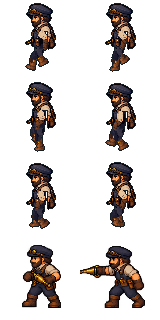
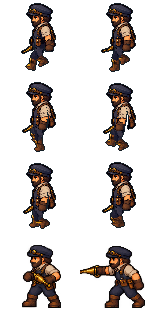
Refine Orrin's native sleeves, gloves and boot materials

diff --git a/src/art/orrin-actor.ts b/src/art/orrin-actor.ts
@@ -1,6 +1,6 @@
 import type { ActorDirection } from '../content/actors';
-import { orient, project } from './actor-space';
-import { patch, surface, acrossView, ROUND_SIDES, viewPoint, decal, limb, rounded, pelvis, trouserLeg, shoe, type CharacterTextures } from './actor-skin';
+import { orient, project, type Point3 } from './actor-space';
+import { patch, surface, acrossView, ROUND_SIDES, viewPoint, decal, limb, pelvis, trouserLeg, shoe, type CharacterTextures } from './actor-skin';
 import { renderLayers, type PixelTexture, type SpriteLayer } from './layered-sprite';
 import { armToGrip, referenceRig, type ReferencePose, type WeaponPose } from './reference-rig';
 import { ORRIN_PROPORTIONS, type RigProportions } from './rig-proportions';
@@ -16,16 +16,81 @@ export function orrinPose(phase:number,config:Readonly<RigProportions>=ORRIN_PRO
 }
 export const orrinFrame=(frame:number,config:Readonly<RigProportions>=ORRIN_PROPORTIONS)=>orrinPose(frame/REFERENCE_FRAMES,config);
 
-function glove(side:'left'|'right',pose:ReferencePose,texture:PixelTexture,direction:ActorDirection):SpriteLayer {
-  const grip=pose.arms[side].grip,scale=pose.proportions.armWidth;
-  return surface(`${side}-hand`,Array.from({length:7},(_,row)=>{
-    const v=row/6,ring=Math.max(.04,Math.sin(v*Math.PI));
-    return Array.from({length:ROUND_SIDES},(_,i)=>{
-      const angle=i/ROUND_SIDES*Math.PI*2,c=Math.cos(angle),s=Math.sin(angle);
-      return {point:{x:grip.x+c*2.7*ring*scale,y:grip.y+s*2.3*ring*scale,z:grip.z+Math.cos(v*Math.PI)*2.8*scale},
-        u:(acrossView(direction,c,s)+1)/2*texture.width,v:v*texture.height};
-    });
-  }),0xffffff,texture);
+/** Native standing artwork has no gait rise. Bind the relaxed arm phase at
+ * the resting hip height so sleeves and belt share exactly the same body bob. */
+function orrinBind():ReferencePose {
+  const pose=orrinPose(.25),rise=pose.hipHeight-ORRIN_PROPORTIONS.hipHeight;
+  for(const arm of Object.values(pose.arms))for(const point of [arm.shoulder,arm.elbow,arm.wrist,arm.grip])point.z-=rise;
+  return pose;
+}
+
+type Span=readonly [top:number,bottom:number,left:number,right:number];
+type ScreenPoint=readonly [number,number];
+interface ArmSkin {
+  shoulder:ScreenPoint;elbow:ScreenPoint;wrist:ScreenPoint;grip:ScreenPoint;
+  sleeve:readonly Span[];cuff:readonly Span[];hand:readonly Span[];
+}
+// Native rolled sleeves, bare forearms and work gloves. Each view has its own
+// source pixels; even the far profile arm is bound independently, never flipped.
+const ARM_SKINS:Record<ActorDirection,Record<'left'|'right',ArmSkin>>={
+  front:{
+    right:{shoulder:[30,29],elbow:[26.5,36],wrist:[26,40],grip:[27,41],
+      sleeve:[[25,28,28,33],[28,31,26,33],[31,34,24,32],[34,36,23,31]],cuff:[[36,40,23,30]],hand:[[40,43,23,29]]},
+    left:{shoulder:[51,29],elbow:[55,38],wrist:[55,43],grip:[55,45],
+      sleeve:[[25,28,49,54],[28,31,49,56],[31,35,50,58],[35,38,52,58]],cuff:[[38,43,52,58]],hand:[[43,48,53,58]]},
+  },
+  left:{right:{shoulder:[36,29],elbow:[33.5,36],wrist:[33,40],grip:[31,43],
+    sleeve:[[27,31,35,38],[31,36,34,37]],cuff:[[36,40,31,35]],hand:[[40,44,31,35]]},
+    left:{shoulder:[44,29],elbow:[45,39],wrist:[44,45],grip:[44,47],
+    sleeve:[[25,28,41,45],[28,31,40,47],[31,35,40,48],[35,39,41,49]],cuff:[[39,45,41,49]],hand:[[45,51,40,48]]}},
+  right:{left:{shoulder:[43,28],elbow:[46,35],wrist:[47,39],grip:[48,41],
+    sleeve:[[27,31,42,45],[31,35,43,47]],cuff:[[35,39,45,49]],hand:[[39,43,46,50]]},
+    right:{shoulder:[36,29],elbow:[39,38],wrist:[41,43],grip:[44,44],
+    sleeve:[[25,28,34,39],[28,31,33,41],[31,35,33,43],[35,38,35,43]],cuff:[[38,43,36,46]],hand:[[43,47,37,47]]}},
+  back:{
+    left:{shoulder:[30,29],elbow:[26,38],wrist:[26,44],grip:[27,46],
+      sleeve:[[25,28,28,33],[28,31,26,33],[31,35,24,32],[35,38,23,31]],cuff:[[38,44,23,30]],hand:[[44,49,24,31]]},
+    right:{shoulder:[51,29],elbow:[55,38],wrist:[56,42],grip:[55,43],
+      sleeve:[[25,28,49,54],[28,31,49,56],[31,35,50,58],[35,38,52,59]],cuff:[[38,42,53,60]],hand:[[42,46,54,60]]},
+  },
+};
+
+function cutout(source:PixelTexture,spans:readonly Span[]):PixelTexture {
+  const pixels=new Uint8ClampedArray(source.pixels.length);
+  for(const [top,bottom,left,right] of spans)for(let y=top;y<bottom;y++)for(let x=left;x<right;x++){
+    const at=(y*source.width+x)*4;pixels.set(source.pixels.subarray(at,at+4),at);
+  }
+  return {...source,pixels};
+}
+
+/** Articulate native garment pixels around the rig, preserving their cross-section
+ * and directional shading instead of wrapping a small swatch around a tube. */
+function garment(id:string,source:PixelTexture,spans:readonly Span[],a:ScreenPoint,b:ScreenPoint,
+  worldA:Point3,worldB:Point3,bindA:Point3,bindB:Point3,direction:ActorDirection,fullness:number):SpriteLayer {
+  const texture=cutout(source,spans),left=Math.min(...spans.map(s=>s[2])),right=Math.max(...spans.map(s=>s[3]));
+  const top=Math.min(...spans.map(s=>s[0])),bottom=Math.max(...spans.map(s=>s[1]));
+  const pa=project(worldA,direction),pb=project(worldB,direction),ba=project(bindA,direction),bb=project(bindB,direction);
+  const ax=a[0]+pa.x-ba.x,ay=a[1]+pa.y-ba.y,bx=b[0]+pb.x-bb.x,by=b[1]+pb.y-bb.y;
+  const dx=b[0]-a[0],dy=b[1]-a[1],length=Math.hypot(dx,dy),tx=bx-ax,ty=by-ay,targetLength=Math.max(.1,Math.hypot(tx,ty));
+  const da=orient(worldA,direction).y+3.5,db=orient(worldB,direction).y+3.5;
+  const vertices=[[left,top],[right,top],[right,bottom],[left,bottom]].map(([x,y])=>{
+    const along=((x-a[0])*dx+(y-a[1])*dy)/(length*length),across=((x-a[0])*-dy+(y-a[1])*dx)/length*fullness;
+    return viewPoint(ax+along*tx-across*ty/targetLength,ay+along*ty+across*tx/targetLength,da+(db-da)*along,direction);
+  });
+  return {id,vertices,faces:[{points:[0,1,2,3],color:0xffffff,unlit:true,texture,uv:[{u:left,v:top},{u:right,v:top},{u:right,v:bottom},{u:left,v:bottom}]}]};
+}
+
+function arms(pose:ReferencePose,source:PixelTexture,direction:ActorDirection):SpriteLayer[]{
+  const bind=orrinBind(),layers:SpriteLayer[]=[];
+  for(const side of ['left','right'] as const){
+    const skin=ARM_SKINS[direction][side];
+    const arm=pose.arms[side],rest=bind.arms[side];
+    layers.push(
+      garment(`${side}-upper-arm`,source,skin.sleeve,skin.shoulder,skin.elbow,arm.shoulder,arm.elbow,rest.shoulder,rest.elbow,direction,pose.proportions.armWidth),
+      garment(`${side}-forearm`,source,skin.cuff,skin.elbow,skin.wrist,arm.elbow,arm.wrist,rest.elbow,rest.wrist,direction,pose.proportions.armWidth),
+      garment(`${side}-hand`,source,skin.hand,skin.wrist,skin.grip,arm.wrist,arm.grip,rest.wrist,rest.grip,direction,pose.proportions.armWidth));
+  }
+  return layers;
 }
 
 /** Overalls fill the volume behind moving sleeves and join the continuous seat. */
@@ -37,59 +102,70 @@ function body(pose:ReferencePose,texture:PixelTexture,direction:ActorDirection):
   })),0xffffff,texture);
 }
 
+/** One native-scale leather field spans the calf and shoe. Projected UVs keep
+ * the brass cuff highlight from repeating around every rounded mesh face. */
+function bootFabric(layer:SpriteLayer,pose:ReferencePose,side:'left'|'right',texture:PixelTexture,direction:ActorDirection):SpriteLayer {
+  const knee=project(pose[side].knee,direction),ankle=project(pose[side].ankle,direction);
+  for(const face of layer.faces){
+    if(!face.texture)continue;
+    face.texture=texture;
+    face.uv=face.points.map(index=>{
+      const p=project(layer.vertices[index],direction),t=(p.y-knee.y)/Math.max(1,ankle.y-knee.y);
+      const x=knee.x+(ankle.x-knee.x)*Math.max(0,Math.min(1,t));
+      return {u:p.x-x+texture.width/2,v:t*7};
+    });
+  }
+  return layer;
+}
+
 /** Registered directional cutouts; the partly hidden left nozzle is never mirrored. */
 function lance(weapon:WeaponPose,source:PixelTexture,direction:ActorDirection):SpriteLayer {
   const regions:Record<ActorDirection,readonly[number,number,number,number,number,number]>={
     front:[21,43,11,20,27,41],left:[22,44,13,10,31,43],right:[47,42,11,20,46,42],back:[51,43,8,21,52,42],
   };
-  const [x,y,width,height,gx,gy]=regions[direction],texture={...source,pixels:new Uint8ClampedArray(source.pixels)};
+  const [x,y,width,height,gx,gy]=regions[direction];
   const spans:Record<ActorDirection,readonly (readonly[number,number,number,number])[]>={
     front:[[43,48,25,29],[48,57,21,30],[57,63,21,28]],
     left:[[44,47,30,35],[47,50,26,34],[50,54,22,30]],
     right:[[42,46,47,52],[46,55,47,57],[55,62,51,58]],
-    back:[[43,48,51,57],[48,59,51,59],[59,64,53,59]],
+    back:[[43,48,55,58],[48,51,53,59],[51,59,51,59],[59,64,53,59]],
   };
-  for(let row=0;row<80;row++)for(let col=0;col<80;col++)
-    if(!spans[direction].some(([top,bottom,left,right])=>row>=top&&row<bottom&&col>=left&&col<right))texture.pixels[(row*80+col)*4+3]=0;
-  const grip=project(weapon.grip,direction),depth=orient(weapon.grip,direction).y,c=Math.cos(weapon.pitch),s=Math.sin(weapon.pitch);
-  const mesh=decal('right-weapon',texture,[x,y,width,height],0,depth,direction);
+  const texture=cutout(source,spans[direction]);
+  const bind=orrinBind().arms.right.grip,actual=project(weapon.grip,direction),rest=project(bind,direction);
+  const grip={x:gx+actual.x-rest.x,y:gy+actual.y-rest.y},depth=orient(weapon.grip,direction).y+4,c=Math.cos(weapon.pitch),s=Math.sin(weapon.pitch);
+  const mesh=decal('right-weapon',texture,[x,y,width,height],0,depth,direction),pivot=viewPoint(grip.x,grip.y,depth,direction);
   mesh.vertices=[[x,y],[x+width,y],[x+width,y+height],[x,y+height]].map(([sx,sy])=>{
-    const p=viewPoint(grip.x+sx-gx,grip.y+sy-gy,depth,direction),dy=p.y-weapon.grip.y,dz=p.z-weapon.grip.z;
-    return {x:p.x,y:weapon.grip.y+dy*c-dz*s,z:weapon.grip.z+dy*s+dz*c};
+    const p=viewPoint(grip.x+sx-gx,grip.y+sy-gy,depth,direction),dy=p.y-pivot.y,dz=p.z-pivot.z;
+    return {x:p.x,y:pivot.y+dy*c-dz*s,z:pivot.z+dy*s+dz*c};
   });
   return mesh;
 }
 
 export function orrinLayers(pose:ReferencePose,direction:ActorDirection,textures:CharacterTextures):SpriteLayer[]{
   const source=textures[direction],head={...source,pixels:new Uint8ClampedArray(source.pixels)},torso={...source,pixels:new Uint8ClampedArray(source.pixels)};
+  const armSpans=Object.values(ARM_SKINS[direction]).flatMap(skin=>[...skin.sleeve,...skin.cuff,...skin.hand]);
   for(let y=0;y<80;y++)for(let x=0;x<80;x++){
     const at=(y*80+x)*4;
     const lowerHead=direction==='front'?y<33&&x>=31&&x<50:direction==='left'?y<30&&x>=32&&x<41:direction==='right'?y<30&&x>=39&&x<48:y<28&&x>=34&&x<47;
     if(y>=25&&!lowerHead)head.pixels[at+3]=0;
-    const oldArm=direction==='left'&&x>=39&&x<48&&y>=31&&y<49
-      ||direction==='right'&&x>=32&&x<43&&y>=31&&y<40
-      ||direction==='right'&&x>=35&&x<47&&y>=40&&y<49
+    const oldArm=armSpans.some(([top,bottom,left,right])=>y>=top&&y<bottom&&x>=left&&x<right)
+      ||direction==='left'&&y>=39&&y<46&&x<36
       ||direction==='left'&&y>=46&&x<35
-      ||(direction==='front'||direction==='back')&&y>=31&&(x<31||x>=51)
       ||direction==='right'&&y>=42&&x>=47;
     if(oldArm)torso.pixels[at+3]=0;
   }
-  const sleeveRects:Record<ActorDirection,readonly[number,number,number,number]>={front:[27,27,5,13],left:[42,27,5,13],right:[34,27,5,13],back:[27,27,5,13]};
-  const gloveRects:Record<ActorDirection,readonly[number,number,number,number]>={front:[51,40,5,7],left:[42,41,6,7],right:[37,41,6,7],back:[25,40,6,7]};
-  const sleeve=patch(source,...sleeveRects[direction],(r,g,b)=>r>110&&g>70&&b>30&&r>g*.95&&r<g*1.9);
-  const gloves=patch(source,...gloveRects[direction],(r,g,b)=>r>35&&r<160&&r>g*1.2&&g>b*1.1);
   const trousers=patch(source,33,43,15,14,(r,g,b)=>r<g*1.4&&b>r*.85);
-  const boot=patch(source,39,60,7,7,(r,g,b)=>r>g*1.15&&g>b*1.1&&r>35);
+  const bootRegions:Record<ActorDirection,readonly[number,number,number,number]>={front:[41,56,7,11],left:[42,56,8,11],right:[34,56,8,11],back:[35,57,8,10]};
+  const boot=patch(source,...bootRegions[direction],(r,g,b)=>r>g*1.15&&g>b*1.1&&r>18);
   const bib=patch(source,35,30,10,10,(r,g,b)=>r<g*1.4&&b>r*.85);
   const layers:SpriteLayer[]=[body(pose,bib,direction),pelvis(pose,trousers,direction)];
   for(const side of ['left','right'] as const){
-    const leg=pose[side],arm=pose.arms[side],{armWidth,legWidth}=pose.proportions,inside=side==='right'?-1:1;
+    const leg=pose[side],{legWidth}=pose.proportions;
     layers.push(trouserLeg(side,pose,trousers,direction),
-      limb(`${side}-shin`,leg.knee,leg.ankle,[3.2,2.8],[2.8,2.4],boot,direction,legWidth),shoe(side,leg.foot,boot,direction,pose.proportions.footScale,legWidth),
-      limb(`${side}-upper-arm`,arm.shoulder,arm.elbow,[3.6,3.3],[3.1,2.8],sleeve,direction,armWidth),
-      limb(`${side}-forearm`,arm.elbow,arm.wrist,[3.1,2.8],[2.4,2.2],gloves,direction,armWidth),glove(side,pose,gloves,direction),
-      rounded(`${side}-hand`,{x:arm.grip.x+inside*2*armWidth,y:arm.grip.y+.8,z:arm.grip.z+.2},[1,1.2,1.4],0x745033,armWidth));
+      bootFabric(limb(`${side}-shin`,leg.knee,leg.ankle,[3.2,2.8],[2.8,2.4],boot,direction,legWidth),pose,side,boot,direction),
+      bootFabric(shoe(side,leg.foot,boot,direction,pose.proportions.footScale,legWidth*1.22),pose,side,boot,direction));
   }
+  layers.push(...arms(pose,source,direction));
   const dy=ORRIN_PROPORTIONS.hipHeight-pose.hipHeight,profile=direction==='left'||direction==='right';
   const rect:readonly[number,number,number,number]=[25,25,30,24];
   layers.push(decal('torso',torso,rect,dy,profile?11:6,direction),decal('head',head,[20,0,40,34],dy,profile?12:8,direction),lance(pose.weapon!,source,direction));

diff --git a/AGENTS.md b/AGENTS.md
@@ -36,7 +36,7 @@ Normal CI runs rule/content tests, the production build and the small `@ci` brow
 
 All five playable characters have front/left/right/back actors in `public/art/`, registered by `src/content/actors.ts`. Keep native 80 x 80 dimensions and the shared ground anchor at (40, 68). Use the same character identity and costume for their 128 x 128 portraits. The Vite-only Sprites workshop (`?dev=sprites`) reviews this art without writing saves or builds; keep review code out of production. Artwork prompt briefs and export details live in `assets/characters/prompts.md`.
 
-Nell and Orrin have six-frame walk cycles and two attack poses in `public/art/animation/`, with eight native 80 x 80 frames per small directional page. Keep their idle actors and portraits intact. Nell's walk and attacks are baked from the accepted layered reference, using native face/costume skins and 9-pixel leg bones; run `node scripts/export-nell-animation.mjs` to reproduce its four small pages and canonical 80 x 80 skins. Animation offers a Nell skin with the same editable layers; the model/textures stay dev-only. Keep its prepared RGB pixels unchanged and binary alpha consistent between browser and exporter. Orrin's walk is baked from his own stocky skinned rig with 9.5-pixel leg bones; `node scripts/export-orrin-animation.mjs` regenerates it while preserving his existing attack row. Both characters share the dev-only native material/shape helpers in `src/art/actor-skin.ts`; keep Nell's approved pixels unchanged when adjusting Orrin. Nell's attack wind-up/contact use the same costume geometry, two planted flat feet, rigid arms and registered right-hand lantern; regenerate all eight frames without loading the previous page. Preserve the accepted six walk poses when changing attacks. The shared frame player serves exploration, followers, cutscenes and tactical paths; keep gait tied to distance traveled and preserve it through cells and turns. Nell advances 24 pixels per cycle; Orrin advances 28. Never mirror profiles or rescale a frame at runtime. The lantern and steam lance stay in the anatomical right hand throughout all six steps: viewer left in front, viewer right in back, far arm in left profile and near arm in right profile. Attacks show wind-up/contact/recovery, with damage visuals and player sounds at contact. Battle restarts and forced outcomes must cancel old presentation callbacks. Capture retaliation before round-end flag resets. Sprites offers all six walk phases, playback, pause and frame stepping; review remains dev-only. See `assets/characters/animation.md` for the source manifest and authoring recipe.
+Nell and Orrin have six-frame walk cycles and two attack poses in `public/art/animation/`, with eight native 80 x 80 frames per small directional page. Keep their idle actors and portraits intact. Nell's walk and attacks are baked from the accepted layered reference, using native face/costume skins and 9-pixel leg bones; run `node scripts/export-nell-animation.mjs` to reproduce its four small pages and canonical 80 x 80 skins. Animation offers a Nell skin with the same editable layers; the model/textures stay dev-only. Keep its prepared RGB pixels unchanged and binary alpha consistent between browser and exporter. Orrin's walk is baked from his own stocky skinned rig with 9.5-pixel leg bones; `node scripts/export-orrin-animation.mjs` regenerates it while preserving his existing attack row. Both characters share the dev-only native material/shape helpers in `src/art/actor-skin.ts`; keep Nell's approved pixels unchanged when adjusting Orrin. Orrin's sleeves, bare forearms and gloves use separately registered native cutouts for both arms in every view; remove the same source spans from the idle torso, keep the relaxed binding at resting hip height, and do not substitute a duplicate near arm for an occluded far arm. His calf and shoe share a continuous leather field so brass highlights do not repeat around the mesh. Nell's attack wind-up/contact use the same costume geometry, two planted flat feet, rigid arms and registered right-hand lantern; regenerate all eight frames without loading the previous page. Preserve the accepted six walk poses when changing attacks. The shared frame player serves exploration, followers, cutscenes and tactical paths; keep gait tied to distance traveled and preserve it through cells and turns. Nell advances 24 pixels per cycle; Orrin advances 28. Never mirror profiles or rescale a frame at runtime. The lantern and steam lance stay in the anatomical right hand throughout all six steps: viewer left in front, viewer right in back, far arm in left profile and near arm in right profile. Attacks show wind-up/contact/recovery, with damage visuals and player sounds at contact. Battle restarts and forced outcomes must cancel old presentation callbacks. Capture retaliation before round-end flag resets. Sprites offers all six walk phases, playback, pause and frame stepping; review remains dev-only. See `assets/characters/animation.md` for the source manifest and authoring recipe.
 
 Chapter One uses real 24 x 24 tiles, with editable Tiled JSON under `src/content/chapter-one/maps/` and small shared native tile pages. Read `docs/tile-maps.md` before changing its layouts. Tile properties drive collision; map object layers own interactions, named arrivals and initial scene casts. Use story-flag layers for scenery changes. Keep the four tactical floors clear of scenery and preserve all map/interaction/checkpoint IDs. Each map's `safeArrival` supports restoring valid current-format saves whose cells a layout edit covers or crops: use the nearest connected floor and preserve all progress/resources. Do not restore its removed wholesale backgrounds. Export large authoring sheets into real small image tiles/pages before any upload or commit: Chapter One pages are lossless PNG/WebP at most 192 × 192 pixels and 128 KB each; other changed raster images must be at most 128 KB. Never upload a large source sheet or base64 fragments of it. Run `npm run check:art-upload` after staging and before publishing. Later chapters retain their current native scenery until converted.
 

diff --git a/assets/characters/orrin-rig.md b/assets/characters/orrin-rig.md
@@ -4,9 +4,9 @@
 
 Shoulders sit 21 pixels above the hips and 11.5 pixels either side of centre. The arms have rigid 8/7-pixel bones. Orrin's right grip sits three pixels below the reference lance carry target, solved through the shared arm IK. Native directional steam-lance cutouts attach at the anatomical right grip and swing only two degrees from their source orientation. Front: viewer left. Back: viewer right. Left profile: far hand. Right profile: near hand. Neither profile is mirrored.
 
-The four idle actors supply canonical 80 x 80 skins in `assets/characters/orrin-skin/`, retaining source RGB and thresholding alpha consistently at 128. The face, cap, goggles and beard keep their native pixels and resting registration. The static torso preserves the collar, yoke, suspenders, belt and rear tool bags; masks remove the idle near arm in each profile so it cannot create a second stationary sleeve or glove. Broad overalls fill the volume behind those moving arms. Sleeve material includes the cream fabric and exposed forearm; gloves and boots use separate native brown patches.
+The four idle actors supply canonical 80 x 80 skins in `assets/characters/orrin-skin/`, retaining source RGB and thresholding alpha consistently at 128. The face, cap, goggles and beard keep their native pixels and resting registration. The static torso preserves the collar, yoke, suspenders, belt and rear tool bags. `ARM_SKINS` registers separate shoulder/elbow/wrist/grip landmarks and alpha spans for both arms in every direction. The native cream sleeves, rolled cuffs, bare forearms and work gloves articulate as textured cutouts, retaining their original shading and cross-section. The far profile arms use their own small source regions behind the bib, rather than a duplicate of the large near sleeve/glove. Those same spans remove every idle-arm fragment from the torso. Broad overalls fill the volume behind the moving arms. The relaxed arm binding is lowered to the resting hip baseline, so shoulders, belt and head share exactly the same body rise.
 
-Orrin and Nell share the pure native skin/geometry helpers in `src/art/actor-skin.ts`. Both have continuous waist-to-thigh fabric and rounded sleeve, glove and boot shapes, rather than the reference mannequin's boxes. Orrin's wider hip spacing, fuller leg width and broad shoulders establish his own build. Changing Orrin's character model must not alter Nell's accepted walk or attacks.
+Orrin and Nell share the pure native skin/geometry helpers in `src/art/actor-skin.ts`. Both have continuous waist-to-thigh fabric and shaped boots, rather than the reference mannequin's boxes. Orrin's wider hip spacing, fuller leg width and broad shoulders establish his own build. His boots have a wider toe box and share one projected leather field across calf and shoe: brass highlights do not repeat around each mesh face. Arm thickness still adjusts the native cutouts perpendicular to each bone. The right-hand lance uses the same resting bind and rotates around its registered artwork grip; the back cutout excludes the neighbouring belt pouch. Changing Orrin's character model must not alter Nell's accepted walk or attacks.
 
 Run `node scripts/export-orrin-animation.mjs` to regenerate the four 160 x 320 pages. The shared authoring pipeline writes six new walk frames and preserves Orrin's two existing attack frames byte-for-byte. No source sheets are uploaded. Repeated exports must produce identical bytes. Idle actors and portraits remain untouched. The old generated-walk importer and guides have been retired.
 
